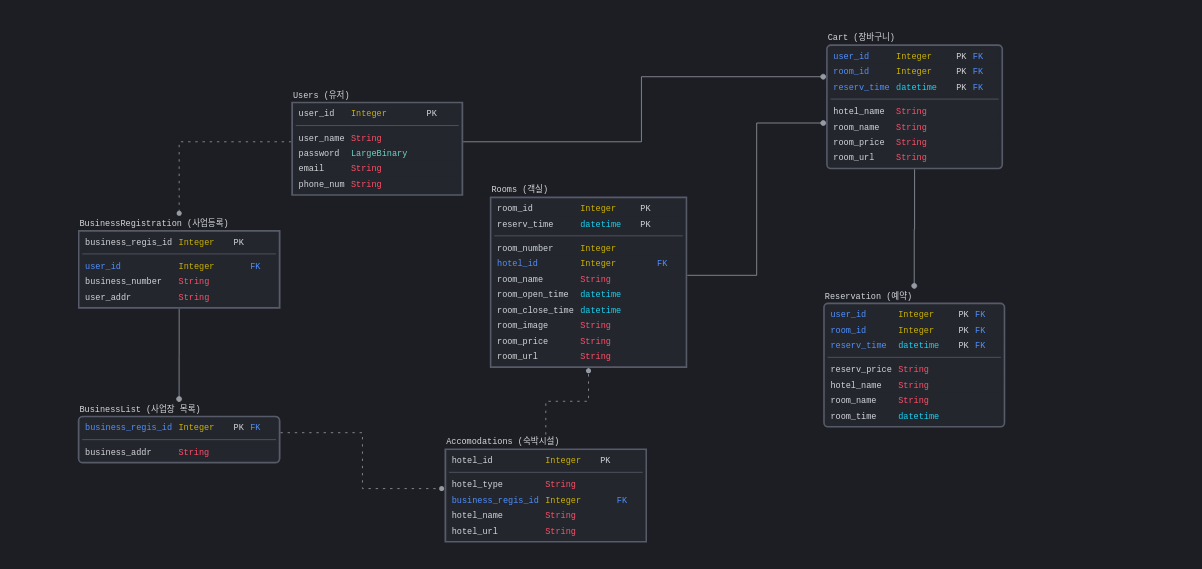
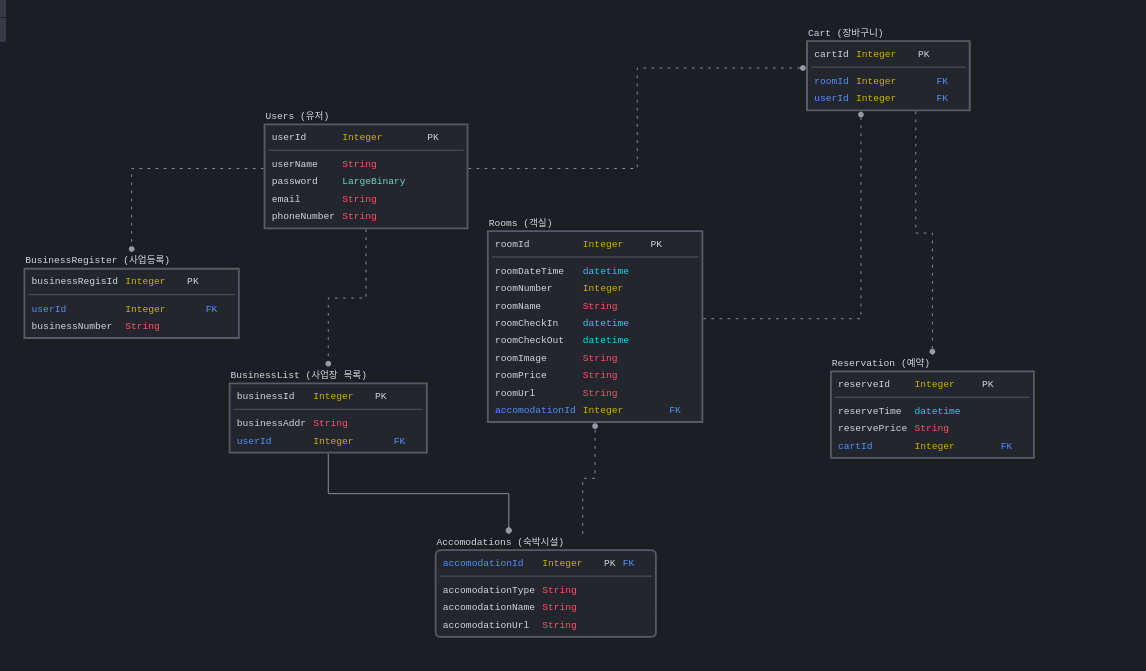
databases

diff --git a/apps/authentication/models.py b/apps/authentication/models.py
@@ -1,109 +1,112 @@
 from flask_login import UserMixin
 from apps import db, login_manager
 from apps.authentication.util import hash_pass
+from sqlalchemy import Column, Integer, String, LargeBinary, DateTime, ForeignKey, ForeignKeyConstraint, Index
 
 class Users(db.Model, UserMixin):
 
     __tablename__ = 'Users'
 
-    user_id = db.Column(db.Integer, primary_key=True)
-    user_name = db.Column(db.String(64), unique=True)
-    password = db.Column(db.LargeBinary)
-    email = db.Column(db.String(64), unique=True)
-    phone_num = db.Column(db.String(64))
+    userId = Column(Integer, primary_key=True, autoincrement=True)
+    userName = Column(String(64), nullable=False, unique=True)
+    password = Column(LargeBinary, nullable=False)
+    email = Column(String(64), unique=True, nullable=False)
+    phoneNumber = Column(String(64), nullable=False)
 
     def __init__(self, **kwargs):
         for property, value in kwargs.items():
-            # depending on whether value is an iterable or not, we must
-            # unpack it's value (when **kwargs is request.form, some values
-            # will be a 1-element list)
+
             if hasattr(value, '__iter__') and not isinstance(value, str):
-                # the ,= unpack of a singleton fails PEP8 (travis flake8 test)
                 value = value[0]
-
             if property == 'password':
-                value = hash_pass(value)  # we need bytes here (not plain str)
-
+                value = hash_pass(value)
             setattr(self, property, value)
 
     def __repr__(self):
-        return str(self.user_name)
+        return str(self.userName)
+
+
+class BusinessRegisters(db.Model):
+
+    __tablename__ = "BusinessRegisters"
+
+    businessRegisId = Column(Integer, primary_key=True, autoincrement=True)
+    userId = Column(Integer, ForeignKey('Users.userId'))
+    businessNumber = Column(String(200), unique=True, nullable=False)
+
+    users = db.relationship('Users', backref='BusinessRegisters')
+
+
+class BusinessLists(db.Model):
+
+    __tablename__ = "BusinessLists"
+
+    businessId = Column(Integer, primary_key=True)
+    businessAddr = Column(String(200), nullable=False, unique=True)
+    userId = Column(Integer, ForeignKey('Users.userId'))
+
+    user = db.relationship('Users', backref='BusinessLists')
+
+class Accomodations(db.Model):
+
+    __tablename__ = "Accomodations"
+
+    accomodationId = Column(Integer, ForeignKey('BusinessLists.businessId'), primary_key=True)
+    accomodationType = Column(String(100), nullable=False)
+    accomodationName = Column(String(100), nullable=False)
+    accomodationUrl = Column(String(100), nullable=False)
+
+    businessLists = db.relationship('BusinessLists', backref='Accomodations')
+
+   
+class Rooms(db.Model):
+
+    __tablename__ = 'Rooms'
+
+    roomId = Column(Integer, primary_key=True, autoincrement=True)
+    roomDateTime = Column(DateTime, nullable=False)
+    roomNumber = Column(Integer, nullable=False)
+    roomName = Column(String(200), nullable=False)
+    romeCheckIn = Column(DateTime, nullable=False)
+    romeCheckOut = Column(DateTime, nullable=False)
+    romeImage = Column(String(300))
+    romePrice = Column(String(100))
+    romeUrl = Column(String(200), nullable=False)
+    accomodationId = Column(Integer, ForeignKey('Accomodations.accomodationId'))
+
+    accomodations = db.relationship('Accomodations', backref='Rooms')
+
+
+class Carts(db.Model):
+
+    __tablename__ = 'Carts'
+
+    cartId = Column(Integer, primary_key=True)
+    userId = Column(Integer, ForeignKey('Users.userId'))
+    roomId = Column(Integer, ForeignKey('Rooms.roomId'))
+
+    users = db.relationship('Users', backref='Carts')
+    rooms = db.relationship('Rooms', backref='Carts')
+    
+class Reservations(db.Model):
+    
+    __tablename__ = 'Reservations'
+
+    reserveId = Column(Integer, primary_key=True, autoincrement=True)
+    reserveTime = Column(DateTime, nullable=False)
+    reservePrice = Column(String(200), nullable=False)
+    cartId = Column(Integer, ForeignKey('Carts.cartId'))
+
+    carts = db.relationship('Carts', backref='Reservations')
+
 
 @login_manager.user_loader
-def user_loader(user_id):
-    return Users.query.filter_by(user_id=user_id).first()
+def user_loader(userId):
+    return Users.query.filter_by(useId=userId).first()
 
 
 @login_manager.request_loader
 def request_loader(request):
-    user_name = request.form.get('user_name')
-    user = Users.query.filter_by(user_name=user_name).first()
+    userName = request.form.get('userName')
+    user = Users.query.filter_by(userName=userName).first()
     return user if user else None
-
-class Cart(db.Model):
-    __tablename__ = 'Cart'
-
-    cart_id = db.Column(db.Integer, primary_key=True)
-    user_name = db.Column(db.String(64))
-    cart_name = db.Column(db.String(200), nullable=False)
-    cart_price = db.Column(db.String(100))
-    cart_url = db.Column(db.String(200), nullable=False)
-
-    def __repr__(self):
-        return str(self.cartname)
-
-class Reservation(db.Model):
-    __tablename__ = 'Reservation'
-
-    reserv_seq = db.Column(db.Integer, primary_key=True)
-    reserv_time = db.Column(db.DateTime, nullable=False)
-    reserv_price = db.Column(db.String(200), nullable=False)
-    user_id= db.Column(db.Integer, nullable=False)
-    hotel_name = db.Column(db.String(200), nullable=False)
-    room_name = db.Column(db.String(200), nullable=False)
-    room_time = db.Column(db.DateTime, nullable=False)
-    
-class BusinessRegistration(db.Model):
-    __tablename__ = "BusinessRegistration"
-
-    business_regis_seq = db.Column(db.Integer, primary_key=True)
-    user_id = db.Column(db.Integer)
-    business_number = db.Column(db.String(200), unique=True, nullable=False)
-    user_addr = db.Column(db.String(200), nullable=False)
-
-# 사업장이 하나가 아닐 수가 있음
-class BusinessList(db.Model):
-    __tablename__ = "BusinessList"
-
-    business_seq = db.Column(db.Integer, primary_key=True)
-    business_addr = db.Column(db.String(200), nullable=False, unique=True)
-    user_id = db.Column(db.Integer, nullable=False)
-
-# 주택 타입
-class HotelFeature(db.Model):
-    __tablename__ = "HotelFeature"
-
-    business_seq = db.Column(db.Integer, primary_key=True)
-    room_num = db.Column(db.Integer, primary_key=True, nullable=False)
-    hotel_type = db.Column(db.String(100), nullable=False)
-
-class Rooms(db.Model):
-    __tablename__ = 'RoomItems'
-
-    room_seq = db.Column(db.Integer, primary_key=True)
-    room_reserv_time = db.Column(db.DateTime, nullable=False, primary_key=True)
-    room_number = db.Column(db.Integer, nullable=False)
-    room_name = db.Column(db.String(200), nullable=False)
-    rome_open_time = db.Column(db.DateTime, nullable=False)
-    rome_close_time = db.Column(db.DateTime, nullable=False)
-    rome_image = db.Column(db.String(300))
-    rome_price = db.Column(db.String(100))
-    rome_url = db.Column(db.String(200), nullable=False)
-    hotel_name = db.Column(db.String(200), nullable=False)
-
-    def __repr__(self):
-        return str(self.hotelname)
-
-
-
-

diff --git a/apps/authentication/routes.py b/apps/authentication/routes.py
@@ -29,7 +29,7 @@ def check_login():
     if request.method == 'POST':
         data = request.get_json()
 
-        user = Users.query.filter_by(user_name=data['username']).first()
+        user = Users.query.filter_by(userName=data['username']).first()
 
         if not user:
             error = "입력하신 정보가 올바르지 않습니다."
@@ -39,7 +39,7 @@ def check_login():
 
         if error is None:
             session.clear()
-            session['user_id']=user.user_id
+            session['user_id']=user.userId
             print('success')
             return jsonify({"result":"success"})
 
@@ -54,7 +54,7 @@ def register():
         data = request.get_json()
 
         # Check usename exists
-        user = Users.query.filter_by(user_name=data['username']).first()
+        user = Users.query.filter_by(userName=data['username']).first()
         if user:
             return render_template('accounts/login.html',
                                    form=create_account_form)
@@ -66,8 +66,8 @@ def register():
                                    form=create_account_form)
 
         # else we can create the user
-        user = Users(user_name=data['username'], password=data['password'], 
-        email=data['email'], phonenum=data['phonenum'])
+        user = Users(userNamee=data['username'], password=data['password'], 
+        email=data['email'], phoneNumber=data['phonenum'])
         db.session.add(user)
         db.session.commit()
 

diff --git a/apps/__init__.py b/apps/__init__.py
@@ -1,11 +1,9 @@
 from flask import Flask
 from flask_login import LoginManager
 from flask_sqlalchemy import SQLAlchemy
+
 from importlib import import_module
 from sqlalchemy import MetaData
-import pymysql
-
-from sqlalchemy import create_engine, text
 
 naming_convetion = {
     'ix' : "ix_%(column_0_label)s",
